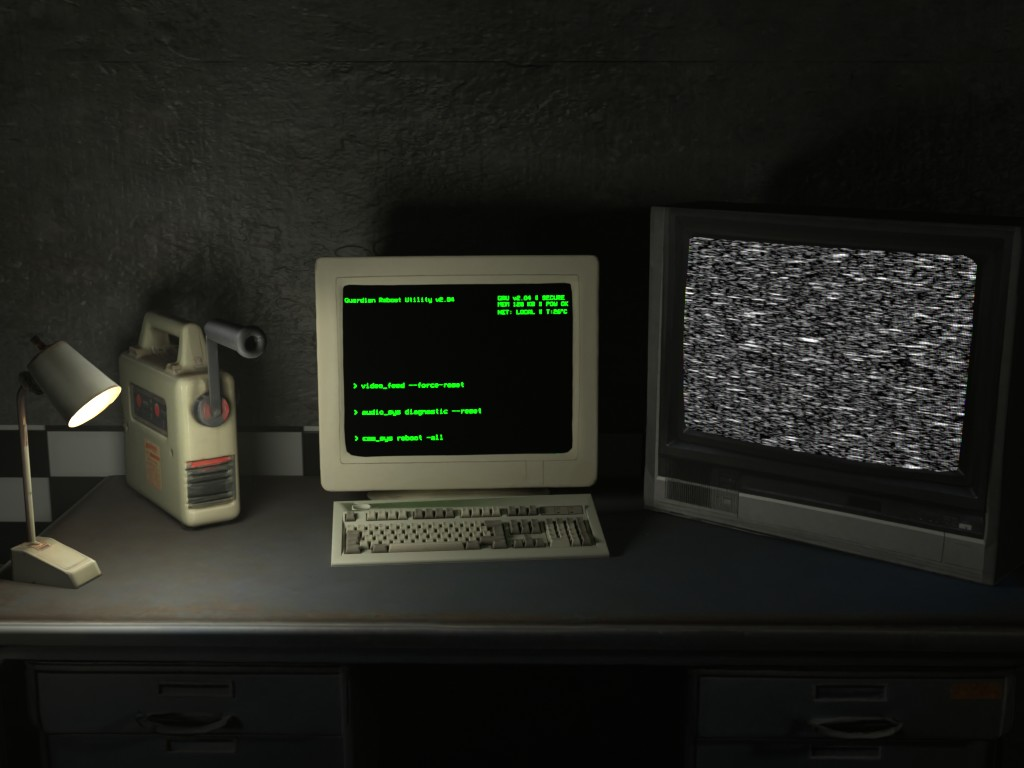
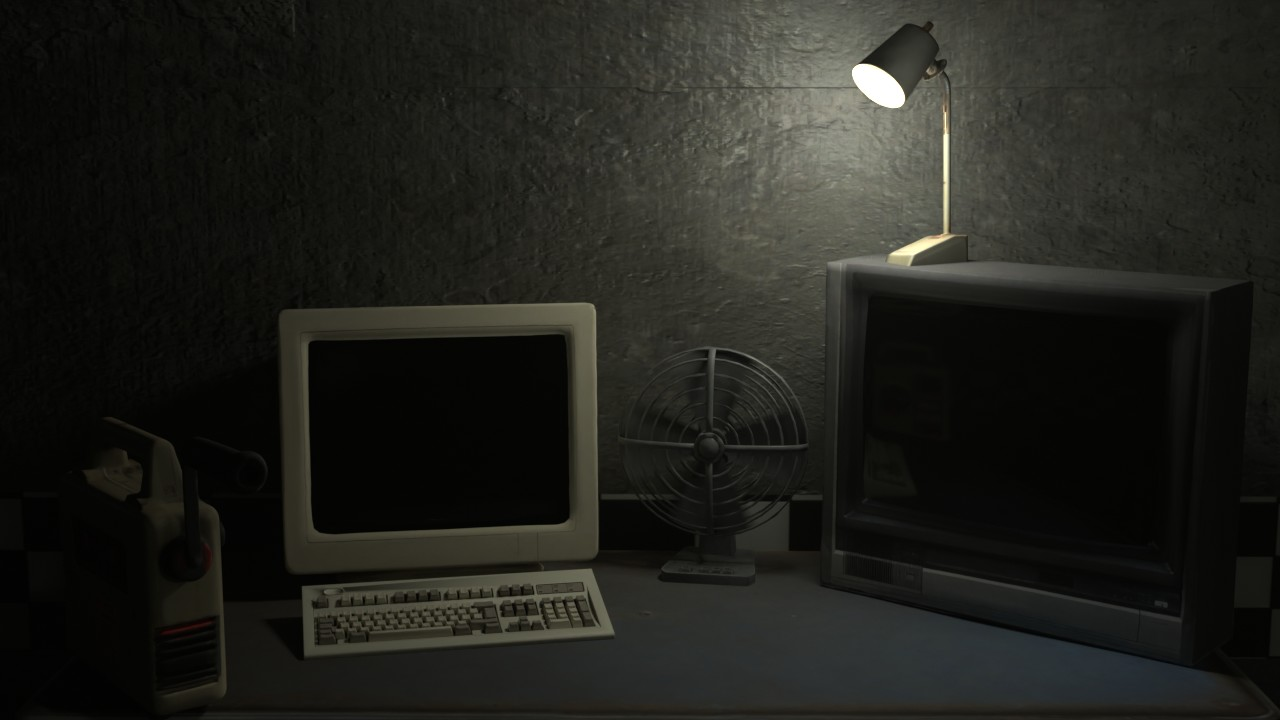
increase window and render size to 1280x720

diff --git a/engine/src/main.cpp b/engine/src/main.cpp
@@ -9,8 +9,8 @@
 #include <numeric>
 #include <deque>
 
-const int WINDOW_WIDTH = 1024;
-const int WINDOW_HEIGHT = 768;
+const int WINDOW_WIDTH = 1280;
+const int WINDOW_HEIGHT = 720;
 const float TARGET_FPS = 30.0f;
 const float FRAME_TIME = 1.0f / TARGET_FPS;
 
